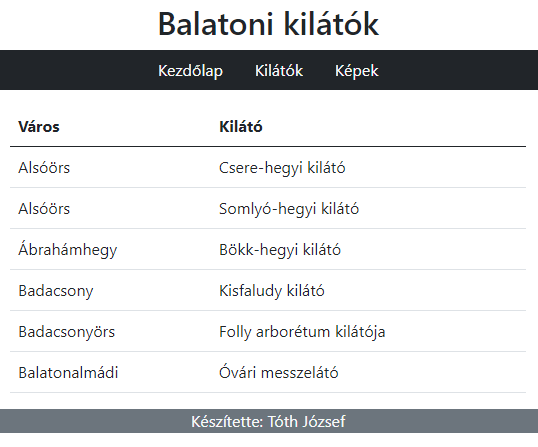
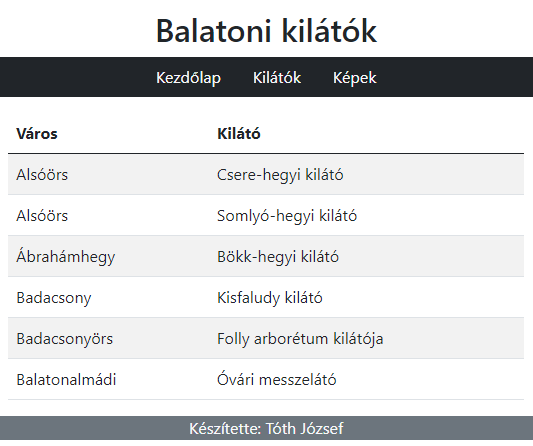
README javítás

diff --git a/feladat2/src/pages/Kilatok.js b/feladat2/src/pages/Kilatok.js
@@ -1,7 +1,7 @@
 function Kilatok() {
   return (
     <main className="container">
-      <table className="table striped-table">
+      <table className="table table-striped">
         <thead>
           <tr>
             <th>Város</th>

diff --git a/README.md b/README.md
@@ -31,15 +31,15 @@ Minden oldal tetején legyen fejléc, amelyben első szintű címsorként a "Bal
 
 Alatta minden oldalon egy olyan navigáció legyen, amely mindhárom oldal hivatkozását tartalmazza! A navigáció háttere sötét, betűszíne világos legyen, és a hivatkozások legyenek középre igazítva!
 
-A kezdőlapon a feladat2.txt fájlban található három bekezdés legyen!
+A kezdőlapon a feladat2.txt fájlban található három bekezdés legyen:
 
 ![minta2a](minta2a.png)
 
-A Kilátók oldalon (amelynek címe /kilatok legyen) a városok és a kilátók nevei egy táblázatba kerüljenek!
+A Kilátók oldalon (amelynek címe /kilatok legyen) a városok és a kilátók nevei egy csíkozott táblázatba kerüljenek:
 
 ![minta2b](minta2b.png)
 
-A Képek oldalon (amelynek címe /kepek legyen) a public/kepek mappában lévő képek jelenjenek meg! A képek közepes mérettől felfelé két oszlopban, alatta egy oszlopban jelenjenek meg!
+A Képek oldalon (amelynek címe /kepek legyen) a public/kepek mappában lévő képek jelenjenek meg! A képek közepes mérettől felfelé két oszlopban, alatta egy oszlopban jelenjenek meg:
 
 ![alt text](minta2c.png)
 
@@ -49,7 +49,7 @@ A Képek oldalon (amelynek címe /kepek legyen) a public/kepek mappában lévő 
 
 A [https://dog.ceo/api/breeds/image/random](https://dog.ceo/api/breeds/image/random) címen lévő API egy véletlenül választott kutya kép címét adja vissza egy objektumban.
 
-Készítsen egy olyan alkalmazást, amely induláskor és egy gomb megnyomásakor lekér egy képet, és megjeleníti azt a minta szerint!
+Készítsen egy olyan alkalmazást, amely induláskor és egy gomb megnyomásakor lekér egy képet, és megjeleníti azt a minta szerint:
 
 ![minta3](minta3.png)
 
